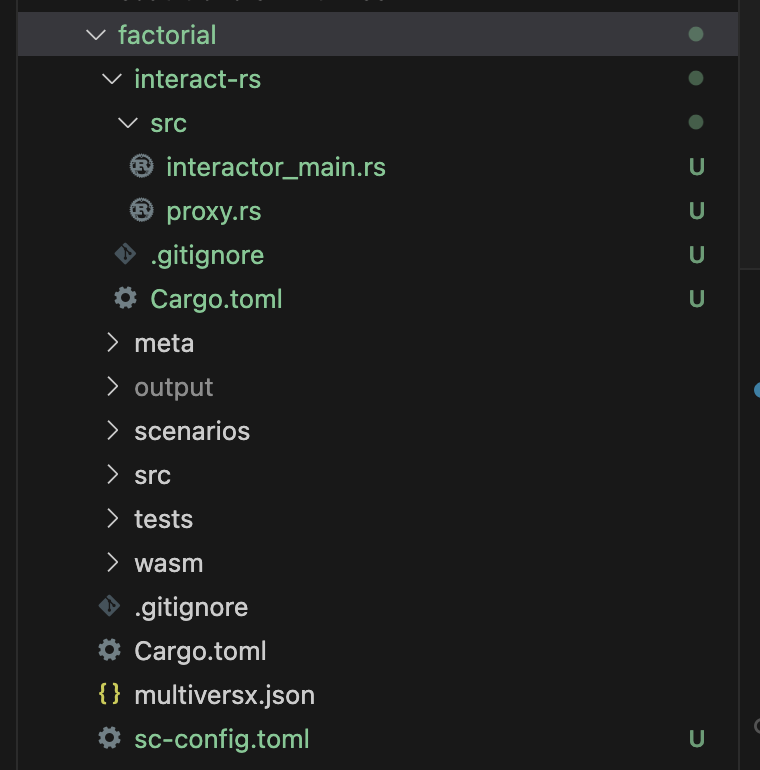
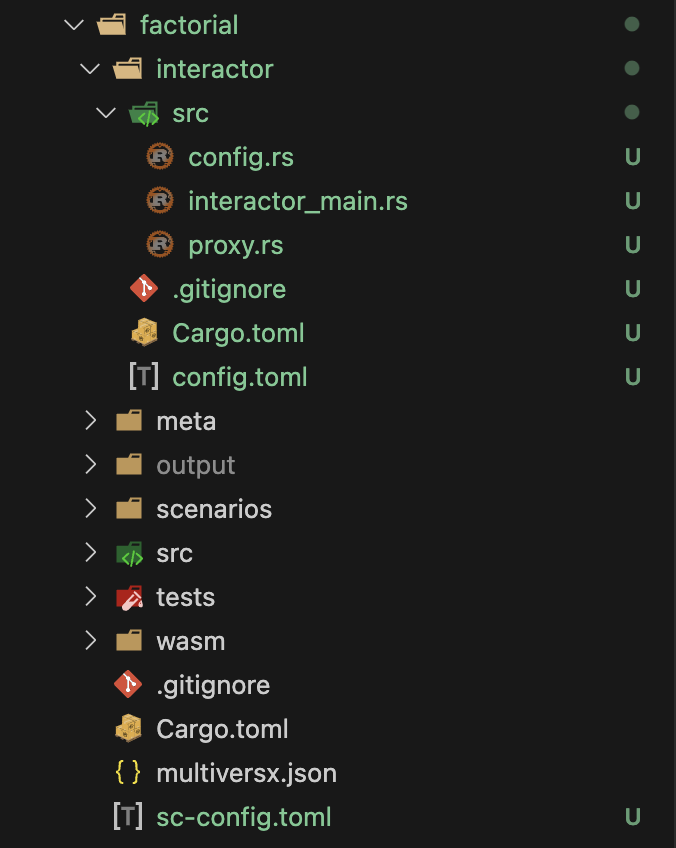
interactor changes for chain simulator, ReturnsHandledOrError

diff --git a/docs/developers/transactions/tx-result-handlers.md b/docs/developers/transactions/tx-result-handlers.md
@@ -479,6 +479,41 @@ fn forward_sync_retrieve_funds_bt(
 }
 ```
 
+[comment]: # (mx-context-auto)
+
+### `ReturnsHandledOrError`
+
+Returns the handled result from a SC call as a `Result<HandledType>`. Can be chained with other result handlers.
+
+Acting as a wrapper over other result handlers, checks the status of the transaction and returns `Some(HandledType)` or `Err(TxResponseStatus)`. Especially useful in external programs that integrate the interactor in their operations such as microservices. This result handler makes sure that the external program keeps running and opens the door for a more elegant error handling.
+
+Usable only in the interactor environment.
+
+In this example, `ReturnsHandledOrError` checks the status of the transaction. If the status is `success`, the other result handler, `ReturnsNewBech32Address`, will try to extract the newly deployed SC address from the transaction on the blockchain. If successful, the new address is returned as a `Bech32Address`. Otherwise, a `TxResponseStatus` struct is returned, containing the error and the message.
+
+```rust title=microservice.rs
+impl ContractInteract {
+    pub async fn deploy_paint_harvest(
+        &mut self,
+        collection_token_id: String,
+        is_open: bool,
+    ) -> Result<Bech32Address, TxResponseStatus> {
+        let paint_harvest_code = BytesValue::from(self.contract_code.paint_harvest);
+
+        self.interactor
+            .tx()
+            .from(&self.wallet_address)
+            .gas(60_000_000u64)
+            .typed(PaintHarvestScProxy)
+            .init(TokenIdentifier::from(&collection_token_id), is_open)
+            .code(paint_harvest_code)
+            .code_metadata(CodeMetadata::UPGRADEABLE)
+            .returns(ReturnsHandledOrError::new().returns(ReturnsNewBech32Address))
+            .run()
+            .await
+    }
+}
+```
 
 [comment]: # (mx-context-auto)
 

diff --git a/docs/developers/meta/interactor/interactors-overview.md b/docs/developers/meta/interactor/interactors-overview.md
@@ -66,8 +66,9 @@ adder % sc-meta all snippets
 This command performs the following actions:
 - **Compiles the contract** (still needs to be built).
 - **Creates a** `sc-config.toml` configuration file. If the file already exists, another proxy path is inserted (the path to the interactor) without changing the previous setup.
-- **Generates a proxy** based on the configuration path from the file.
+- **Generates a proxy** based on the configuration path from the file (`proxy.rs`).
 - **Creates an async Rust program with a CLI** based on the contract endpoints found in the proxy. Returns typed results for further processing. The new project will be under the newly created `interactor` folder, inside the contract root folder.
+- **Creates** `config.toml` and `config.rs` files used to setup and parse the chain simulator config.
 
 ::::note
 Make sure to include the newly generated interactor into the existing file hierarchy to be able to compile and run the code.
@@ -114,7 +115,7 @@ Running the `deploy` command for every contract will create a new `state.toml` f
 To enhance testing support, any instance of the `Interactor` struct implements the `.with_tracer(...)` method. This method enables the interactor to use a `tracer` and output the result to the specified path. A tracer records every action executed through the interactor, mapping each action to a `mandos step`.
 
 ```rust title=interact.rs
-    let mut interactor = Interactor::new(GATEWAY)
+    let mut interactor = Interactor::new(config.gateway_uri(), config.use_chain_simulator())
         .await
         .with_tracer("test_trace.scen.json")
         .await;

diff --git a/docs/developers/meta/sc-meta-cli.md b/docs/developers/meta/sc-meta-cli.md
@@ -398,7 +398,7 @@ Calling `cargo run snippets` in the meta crate or `sc-meta all snippets` in the 
 
 An interactor is a small tool, meant for developers to interact with the contract on-chain and write system tests. Being written in Rust, it is ideal for quick interactions and tinkering, directly from the contract project. 
 
-Inside the `interactor` project there is the small interactor file, `interact_main.rs`, as well as a newly generated contract proxy. The `sc-config.toml` file of the contract (if existent) will be updated with the newly created proxy path (to the interactor project) or created from scratch if not existent.
+Inside the `interactor` project there is the interactor source file called `interact_main.rs`, a `config.toml` state file containing the chain simulator config, a `config.rs` file containing the source code for parsing the config and a newly generated contract proxy (`proxy.rs`). The `sc-config.toml` file of the contract (if existent) will be updated with the newly created proxy path (to the interactor project) or created from scratch if not existent.
 
 After calling `sc-meta all snippets` in the `factorial` smart contract crate, we get:
 ![img](/img/snippets_folder_structure.png)

diff --git a/docs/developers/transactions/tx-env.md b/docs/developers/transactions/tx-env.md
@@ -172,7 +172,9 @@ The interactors are Rust programs, used for interacting with the smart contract 
 const GATEWAY: &str = "https://devnet-gateway.multiversx.com";
 
 async fn example_scenario() {
-    let mut interactor = Interactor::new(GATEWAY).await; // Interactor struct
+    // We use `false` as the argument for the chain simulator, 
+    // as we are using the real blockchain for this test
+    let mut interactor = Interactor::new(GATEWAY, false).await; // Interactor struct
 
     let _query_env = interactor.query(); // tx with InteractorQueryEnv
     let _tx_env = interactor.tx(); // tx with InteractorExecEnv
@@ -189,7 +191,7 @@ mod proxy;
 const GATEWAY: &str = "https://devnet-gateway.multiversx.com";
 
 async fn example_scenario() -> num_bigint::BigUint {
-    let mut interactor = Interactor::new(GATEWAY).await; // create Interactor struct
+    let mut interactor = Interactor::new(GATEWAY, false).await; // create Interactor struct
     let wallet_address = interactor.register_wallet(test_wallets::mike()); // register a test wallet from the framework
     let sc_address = Bech32Address::from_bech32_string(
         "erd1qqqqqqqqqqqqqpgqtsw8s3evhhyqqa2j2tfn9yvufqskdv236n9s2a06h9".to_string(),

diff --git a/docs/developers/meta/interactor/interactors-example.md b/docs/developers/meta/interactor/interactors-example.md
@@ -46,7 +46,6 @@ To compile and run the code, import the new project into the existing file hiera
 members = [
     ".",
     "meta",
-    "interact",
     "interactor"
 ]
 ```
@@ -93,12 +92,13 @@ Optionally, let's attach a [tracer](/developers/meta/interactor/interactors-over
 
 ```rust title=interactor_main.rs
 impl ContractInteract {
-    async fn new() -> Self {
-        let mut interactor = Interactor::new(GATEWAY)
+        async fn new() -> Self {
+        let config = Config::new();
+        let mut interactor = Interactor::new(config.gateway_uri(), config.use_chain_simulator())
             .await
             .with_tracer("trace1.scen.json") // file path
             .await;
-        let wallet_address = interactor.register_wallet(test_wallets::alice());
+        let wallet_address = interactor.register_wallet(test_wallets::alice()).await;
 
         let contract_code = BytesValue::interpret_from(
             "mxsc:../output/adder.mxsc.json",

diff --git a/docs/developers/transactions/tx-overview.md b/docs/developers/transactions/tx-overview.md
@@ -137,7 +137,7 @@ Ultimately, the purpose of a transaction is to be executed. Simply constructing 
 The allowed execution methods depend on the environment. More specifically:
 - In a contract, the options are `.transfer()`, `.transfer_execute()`, `.async_call_and_exit()`, `.sync_call()`, etc.
 - In tests just `.run()` is universal.
-- In interactors, because if the use of async Rust, we need to write `.prepare_async().run().async`.
+- In interactors, because of the use of async Rust, we need to write `.prepare_async().run()` (for framework versions older than 0.54.0). Starting with framework version `0.54.0`, `.prepare_async()` has been deprecated, and `.run()` is the only necessary command.
 
 More on this in the [launch page](tx-run). 
 
